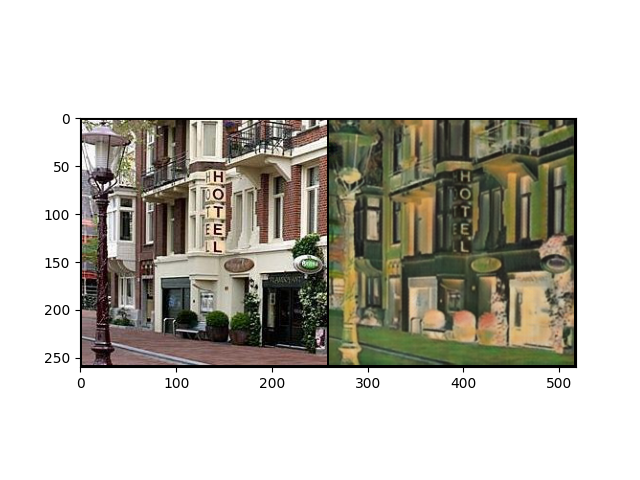
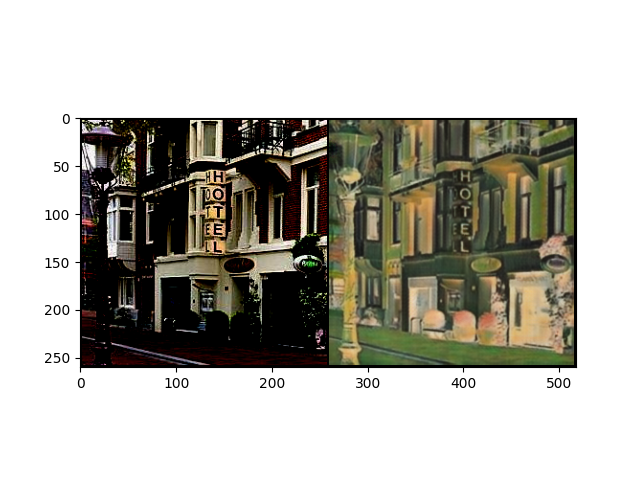
cyclegan 299

Changed region(s): [[0.125, 0.25, 0.5312, 0.7812]]

diff --git a/test.py b/test.py
@@ -207,7 +207,7 @@ class CustomDataSet(Dataset):
         img_loc = os.path.join(self.main_dir, self.total_imgs[idx])
         image = Image.open(img_loc).convert("RGB")
         tensor_image = self.transform(image)
-        return tensor_image
+        return (tensor_image - 0.5) * 2
 
 means = np.array((0.5, 0.5, 0.5))
 stds = np.array((0.5, 0.5, 0.5))
